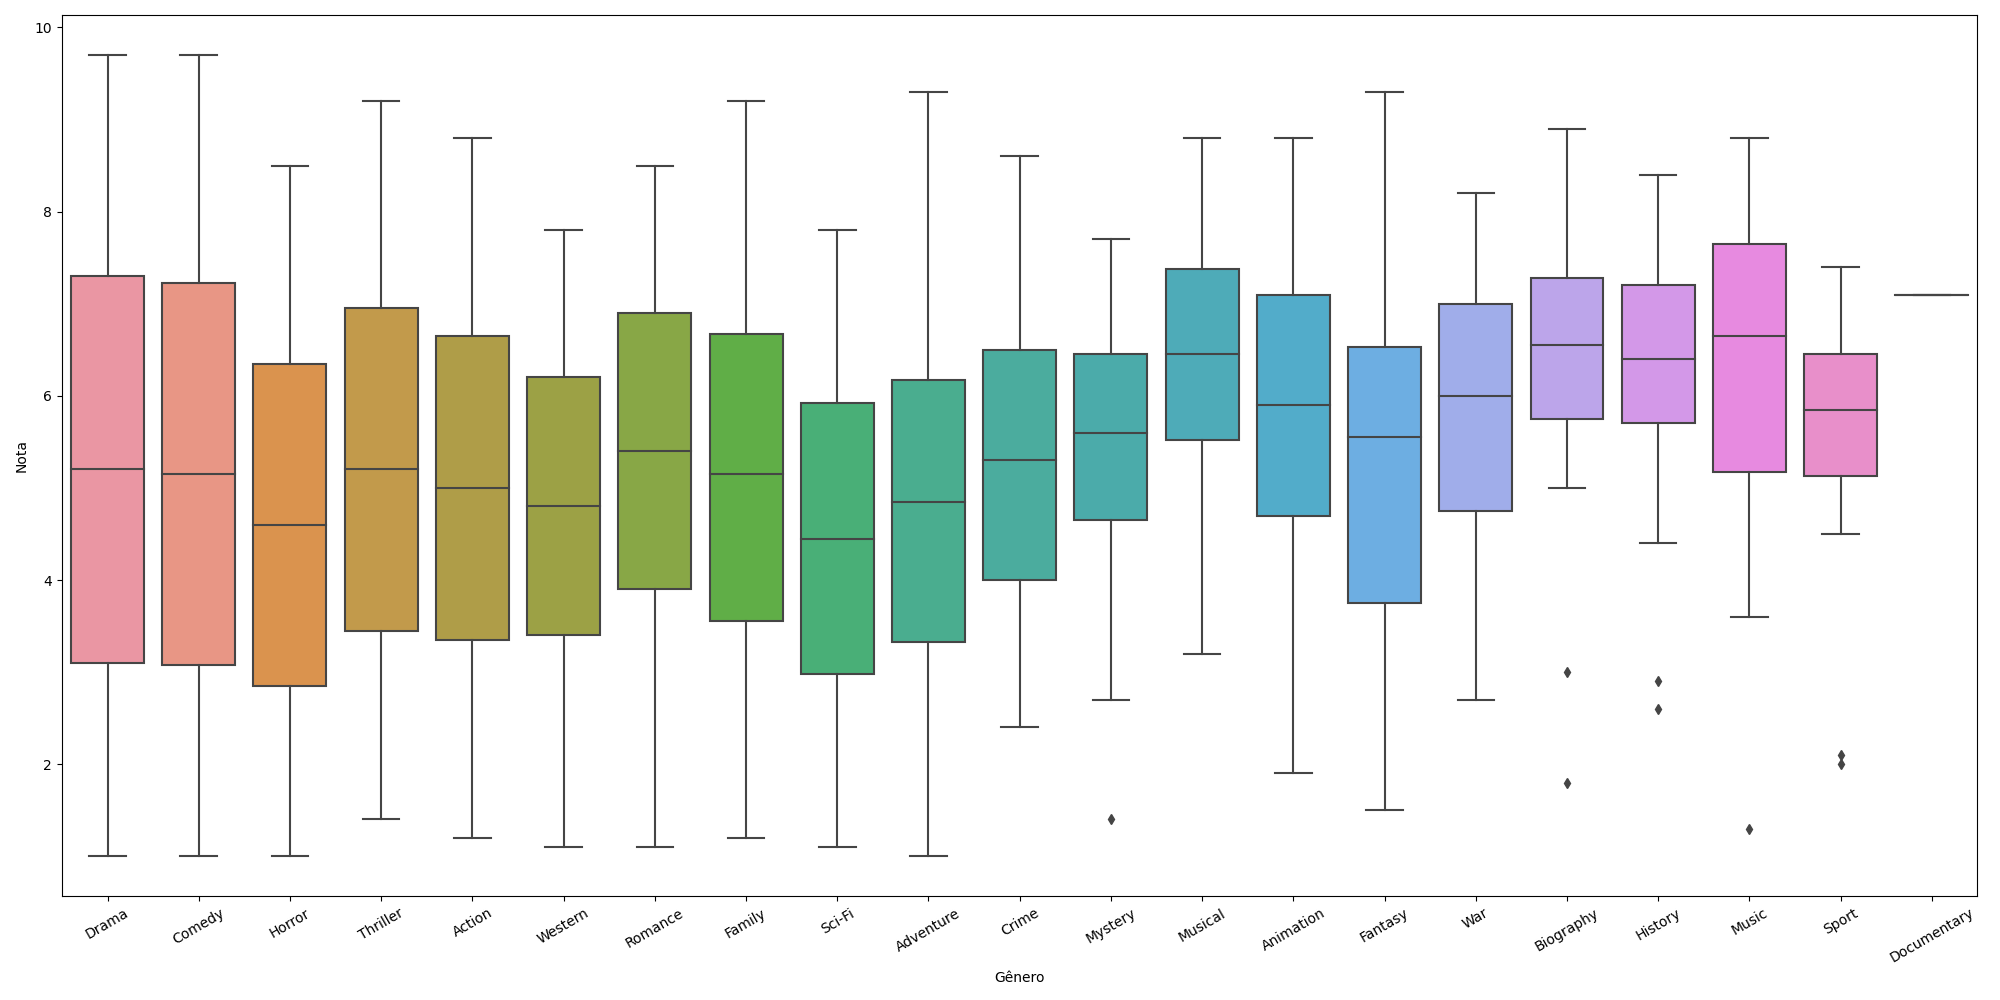
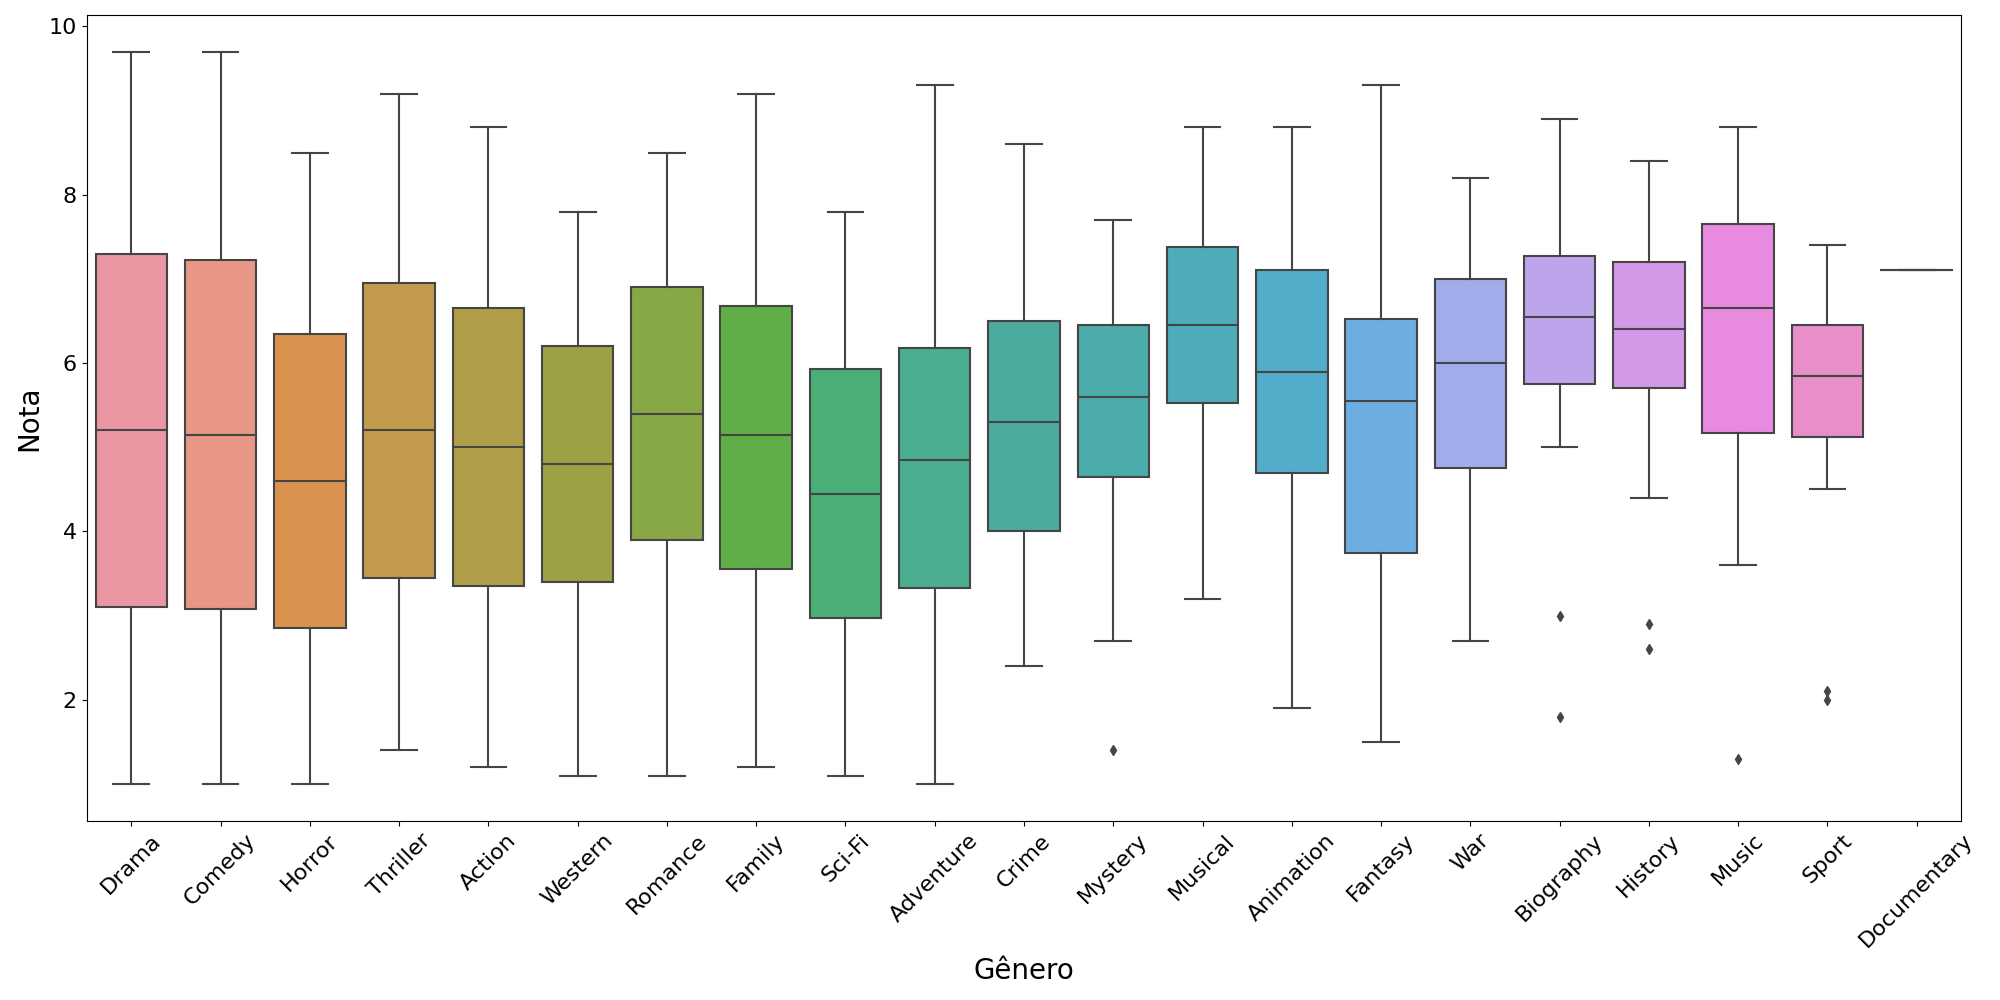
font size changes

diff --git a/graph2.py b/graph2.py
@@ -13,9 +13,10 @@ top_countries.groupby('country')['avg_vote'].agg(['min', 'max'])
 
 plt.figure(figsize=(20,10))
 sns.boxplot(data=top_countries, x='country', y='avg_vote')
-plt.xticks(rotation=30)
-plt.xlabel("País")
-plt.ylabel("Nota")
+plt.xticks(rotation=45, fontsize=16)
+plt.yticks(fontsize=16)
+plt.xlabel("País", fontsize=20)
+plt.ylabel("Nota", fontsize=20)
 plt.tight_layout()
 plt.savefig("./img-graphs/notas_por_pais.png")
 plt.tight_layout()

diff --git a/graph1.py b/graph1.py
@@ -10,9 +10,10 @@ top_countries.reset_index(drop=True, inplace=True)
 
 plt.figure(figsize=(20,10))
 plt.bar(top_countries["country"],top_countries["freq"], width=0.8)
-plt.xticks(rotation=90)
-plt.xlabel("País")
-plt.ylabel("Nº de filmes")
+plt.xticks(rotation=90, fontsize=16)
+plt.yticks(fontsize=16)
+plt.xlabel("País", fontsize=20)
+plt.ylabel("Nº de filmes", fontsize=20)
 plt.tight_layout()
 
 plt.savefig("./img-graphs/num_filmes_pais.png")

diff --git a/graph3.py b/graph3.py
@@ -14,9 +14,10 @@ top_genres.reset_index(drop=True, inplace=True)
 
 plt.figure(figsize=(20,10))
 sns.boxplot(data=top_genres, x='genre', y='avg_vote')
-plt.xticks(rotation=30)
-plt.xlabel("Gênero")
-plt.ylabel("Nota")
+plt.xticks(rotation=45, fontsize=16)
+plt.yticks(fontsize=16)
+plt.xlabel("Gênero", fontsize=20)
+plt.ylabel("Nota", fontsize=20)
 plt.tight_layout()
 plt.savefig("./img-graphs/notas_por_genero.png")
 plt.show()

diff --git a/graph4.py b/graph4.py
@@ -11,9 +11,10 @@ years.reset_index(drop=True, inplace=True)
 
 plt.figure(figsize=(20,10))
 plt.bar(years['year'],years["freq"], width=1)
-plt.xticks(rotation=30)
-plt.xlabel("Ano")
-plt.ylabel("Nº de filmes")
+plt.xticks(rotation=30, fontsize=16)
+plt.yticks(fontsize=16)
+plt.xlabel("Ano", fontsize=20)
+plt.ylabel("Nº de filmes", fontsize=20)
 plt.tight_layout()
 plt.savefig('./img-graphs/num_filmes_ano.png')
 plt.show()
